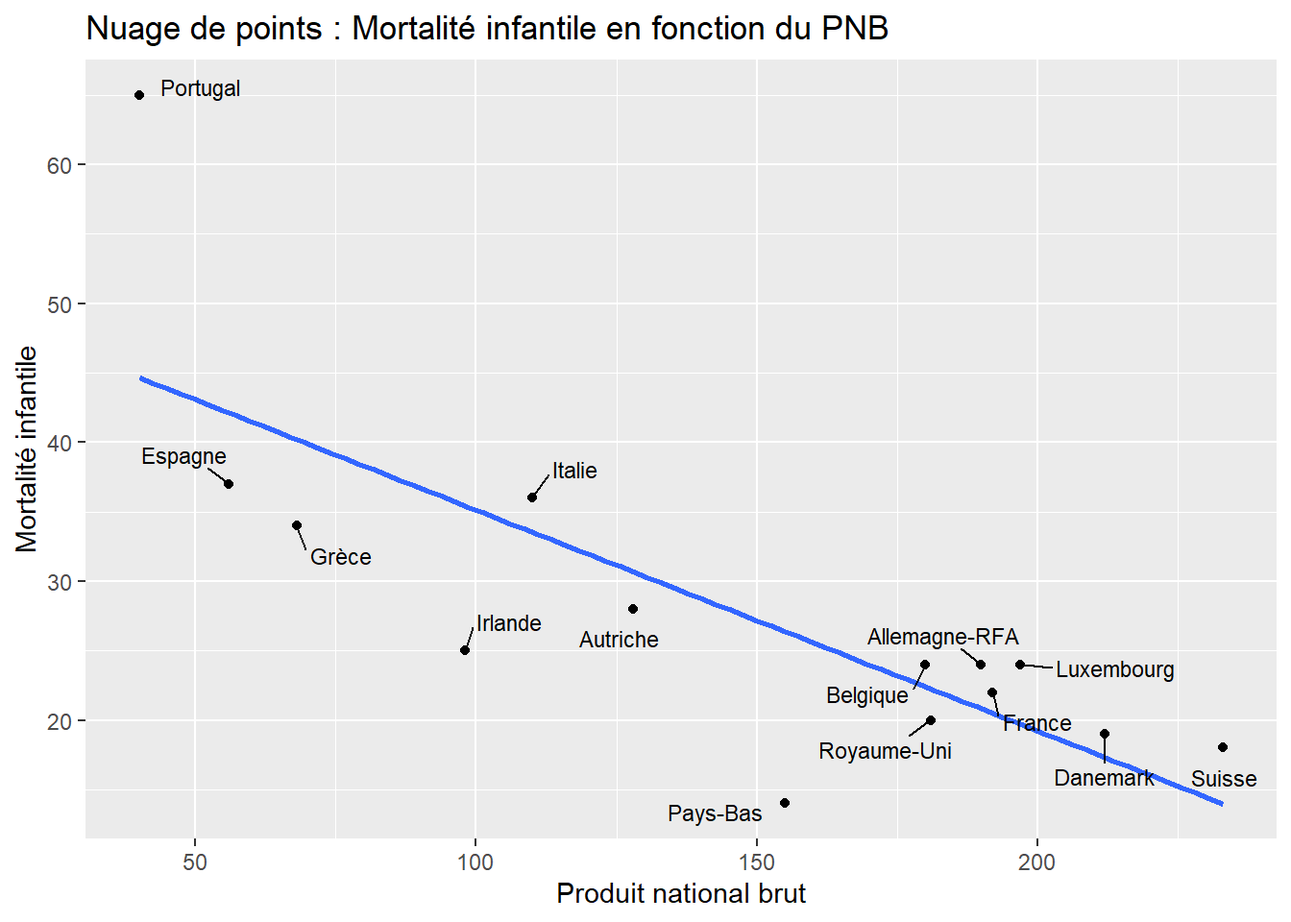
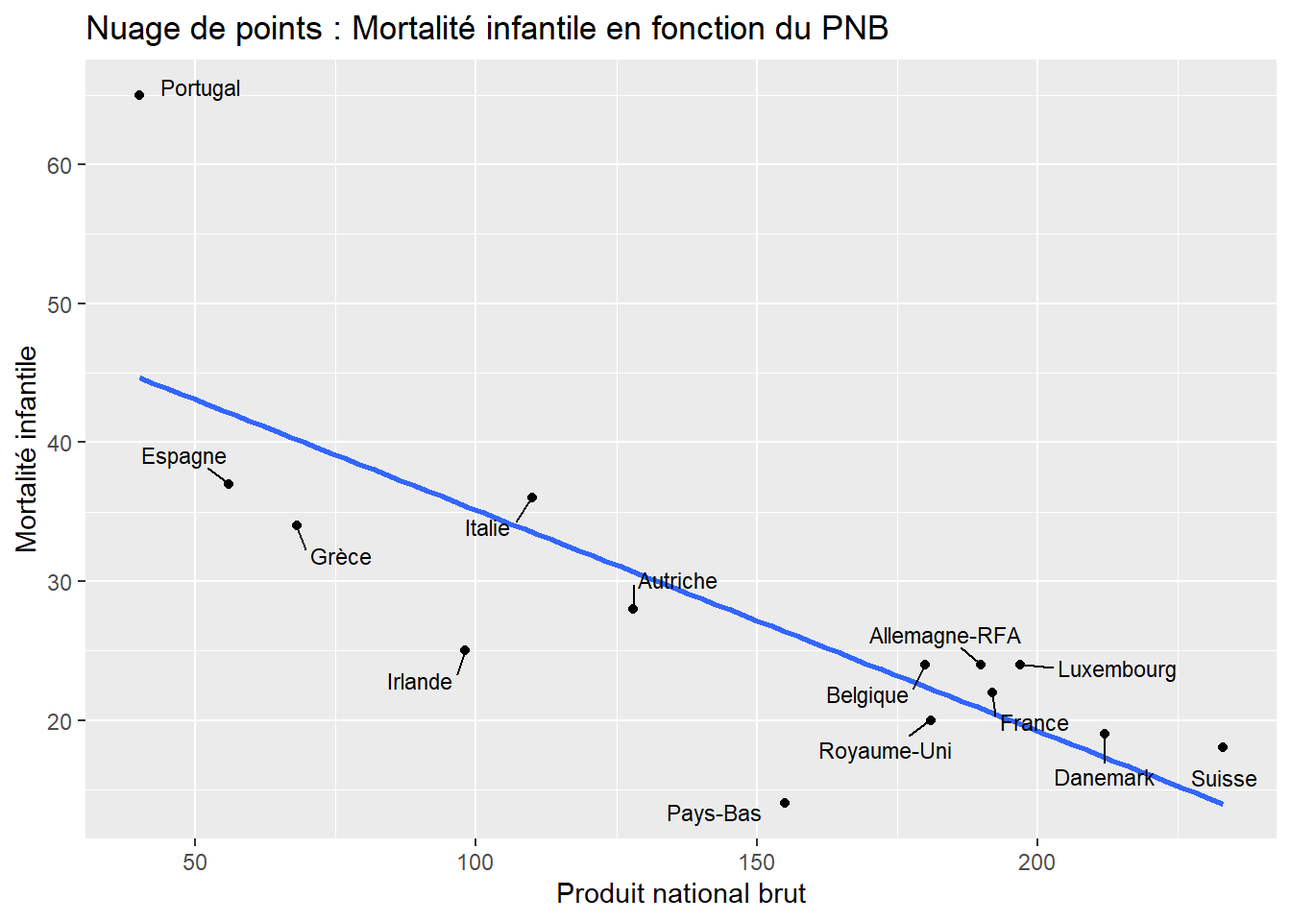
mise en forme

diff --git a/TP2/TP2.html b/TP2/TP2.html
@@ -127,14 +127,14 @@ window.Quarto = {
   </ul></li>
   <li><a href="#exercice-2" id="toc-exercice-2" class="nav-link" data-scroll-target="#exercice-2">Exercice 2</a>
   <ul class="collapse">
-  <li><a href="#a" id="toc-a" class="nav-link" data-scroll-target="#a">a)</a></li>
-  <li><a href="#b" id="toc-b" class="nav-link" data-scroll-target="#b">b)</a></li>
-  <li><a href="#c" id="toc-c" class="nav-link" data-scroll-target="#c">c)</a></li>
-  <li><a href="#d" id="toc-d" class="nav-link" data-scroll-target="#d">d)</a></li>
-  <li><a href="#e-et-f" id="toc-e-et-f" class="nav-link" data-scroll-target="#e-et-f">e) et f)</a></li>
-  <li><a href="#g" id="toc-g" class="nav-link" data-scroll-target="#g">g)</a></li>
-  <li><a href="#h" id="toc-h" class="nav-link" data-scroll-target="#h">h)</a></li>
-  <li><a href="#i" id="toc-i" class="nav-link" data-scroll-target="#i">i)</a></li>
+  <li><a href="#chargement-des-données-1" id="toc-chargement-des-données-1" class="nav-link" data-scroll-target="#chargement-des-données-1">Chargement des données</a></li>
+  <li><a href="#résumé" id="toc-résumé" class="nav-link" data-scroll-target="#résumé">Résumé</a></li>
+  <li><a href="#grapgique-de-nuage-de-points" id="toc-grapgique-de-nuage-de-points" class="nav-link" data-scroll-target="#grapgique-de-nuage-de-points">Grapgique de nuage de points</a></li>
+  <li><a href="#droite-de-régression-linaire" id="toc-droite-de-régression-linaire" class="nav-link" data-scroll-target="#droite-de-régression-linaire">Droite de régression linaire</a></li>
+  <li><a href="#coefficient-r-et-r2" id="toc-coefficient-r-et-r2" class="nav-link" data-scroll-target="#coefficient-r-et-r2">Coefficient <span class="math inline">\(r\)</span> et <span class="math inline">\(R^2\)</span></a></li>
+  <li><a href="#vérification-des-hypothèses" id="toc-vérification-des-hypothèses" class="nav-link" data-scroll-target="#vérification-des-hypothèses">Vérification des hypothèses</a></li>
+  <li><a href="#prédiction" id="toc-prédiction" class="nav-link" data-scroll-target="#prédiction">Prédiction</a></li>
+  <li><a href="#analyse-supplémentaire" id="toc-analyse-supplémentaire" class="nav-link" data-scroll-target="#analyse-supplémentaire">Analyse supplémentaire</a></li>
   </ul></li>
   <li><a href="#exercice-3" id="toc-exercice-3" class="nav-link" data-scroll-target="#exercice-3">Exercice 3</a></li>
   </ul>
@@ -164,7 +164,7 @@ window.Quarto = {
     <div>
     <div class="quarto-title-meta-heading">Published</div>
     <div class="quarto-title-meta-contents">
-      <p class="date">This version: April 29, 2024</p>
+      <p class="date">This version: May 6, 2024</p>
     </div>
   </div>
   
@@ -186,14 +186,17 @@ window.Quarto = {
 <span id="cb1-2"><a href="#cb1-2"></a>r[<span class="st">"CRAN"</span>] <span class="ot">=</span> <span class="st">"http://cran.us.r-project.org"</span></span>
 <span id="cb1-3"><a href="#cb1-3"></a><span class="fu">options</span>(<span class="at">repos =</span> r)</span>
 <span id="cb1-4"><a href="#cb1-4"></a></span>
-<span id="cb1-5"><a href="#cb1-5"></a><span class="fu">install.packages</span>(<span class="st">"ggResidpanel"</span>)</span></code><button title="Copy to Clipboard" class="code-copy-button"><i class="bi"></i></button></pre></div>
-<div class="cell-output cell-output-stdout">
-<pre><code>package 'ggResidpanel' successfully unpacked and MD5 sums checked
-
-The downloaded binary packages are in
-    C:\Users\lcsch\AppData\Local\Temp\RtmpARMFqi\downloaded_packages</code></pre>
-</div>
-<div class="sourceCode cell-code" id="cb3"><pre class="sourceCode numberSource r number-lines code-with-copy"><code class="sourceCode r"><span id="cb3-1"><a href="#cb3-1"></a><span class="fu">library</span>(<span class="st">"ggResidpanel"</span>)</span></code><button title="Copy to Clipboard" class="code-copy-button"><i class="bi"></i></button></pre></div>
+<span id="cb1-5"><a href="#cb1-5"></a><span class="fu">install.packages</span>(<span class="st">"ggResidpanel"</span>)</span>
+<span id="cb1-6"><a href="#cb1-6"></a><span class="fu">library</span>(<span class="st">"ggResidpanel"</span>)</span>
+<span id="cb1-7"><a href="#cb1-7"></a></span>
+<span id="cb1-8"><a href="#cb1-8"></a><span class="fu">install.packages</span>(<span class="st">"tidyverse"</span>)</span>
+<span id="cb1-9"><a href="#cb1-9"></a><span class="fu">library</span>(<span class="st">"tidyverse"</span>)</span>
+<span id="cb1-10"><a href="#cb1-10"></a></span>
+<span id="cb1-11"><a href="#cb1-11"></a><span class="fu">install.packages</span>(<span class="st">"ggrepel"</span>)</span>
+<span id="cb1-12"><a href="#cb1-12"></a><span class="fu">library</span>(<span class="st">"ggrepel"</span>)</span>
+<span id="cb1-13"><a href="#cb1-13"></a></span>
+<span id="cb1-14"><a href="#cb1-14"></a><span class="fu">install.packages</span>(<span class="st">"GGally"</span>)</span>
+<span id="cb1-15"><a href="#cb1-15"></a><span class="fu">library</span>(<span class="st">"GGally"</span>)</span></code><button title="Copy to Clipboard" class="code-copy-button"><i class="bi"></i></button></pre></div>
 </div>
 </section>
 </section>
@@ -202,15 +205,15 @@ The downloaded binary packages are in
 <section id="chargement-des-données" class="level3">
 <h3 class="anchored" data-anchor-id="chargement-des-données">Chargement des données</h3>
 <div class="cell">
-<div class="sourceCode cell-code" id="cb4"><pre class="sourceCode numberSource r number-lines code-with-copy"><code class="sourceCode r"><span id="cb4-1"><a href="#cb4-1"></a><span class="co"># Chargement des données</span></span>
-<span id="cb4-2"><a href="#cb4-2"></a>kalama <span class="ot">&lt;-</span> <span class="fu">read.table</span>(<span class="st">"data/kalama.txt"</span>, <span class="at">header=</span><span class="cn">TRUE</span>)</span></code><button title="Copy to Clipboard" class="code-copy-button"><i class="bi"></i></button></pre></div>
+<div class="sourceCode cell-code" id="cb2"><pre class="sourceCode numberSource r number-lines code-with-copy"><code class="sourceCode r"><span id="cb2-1"><a href="#cb2-1"></a><span class="co"># Chargement des données</span></span>
+<span id="cb2-2"><a href="#cb2-2"></a>kalama <span class="ot">&lt;-</span> <span class="fu">read.table</span>(<span class="st">"data/kalama.txt"</span>, <span class="at">header=</span><span class="cn">TRUE</span>)</span></code><button title="Copy to Clipboard" class="code-copy-button"><i class="bi"></i></button></pre></div>
 </div>
 </section>
 <section id="coefficient-de-correlation" class="level3">
 <h3 class="anchored" data-anchor-id="coefficient-de-correlation">Coefficient de correlation</h3>
 <div class="cell">
-<div class="sourceCode cell-code" id="cb5"><pre class="sourceCode numberSource r number-lines code-with-copy"><code class="sourceCode r"><span id="cb5-1"><a href="#cb5-1"></a><span class="co"># Coefficient de corelation entre la taille et l'âge (0.994)</span></span>
-<span id="cb5-2"><a href="#cb5-2"></a><span class="fu">cor</span>(kalama)</span></code><button title="Copy to Clipboard" class="code-copy-button"><i class="bi"></i></button></pre></div>
+<div class="sourceCode cell-code" id="cb3"><pre class="sourceCode numberSource r number-lines code-with-copy"><code class="sourceCode r"><span id="cb3-1"><a href="#cb3-1"></a><span class="co"># Coefficient de corelation entre la taille et l'âge (0.994)</span></span>
+<span id="cb3-2"><a href="#cb3-2"></a><span class="fu">cor</span>(kalama)</span></code><button title="Copy to Clipboard" class="code-copy-button"><i class="bi"></i></button></pre></div>
 <div class="cell-output cell-output-stdout">
 <pre><code>             age    taille
 age    1.0000000 0.9943661
@@ -221,8 +224,8 @@ taille 0.9943661 1.0000000</code></pre>
 <section id="nuage-de-points" class="level3">
 <h3 class="anchored" data-anchor-id="nuage-de-points">Nuage de points</h3>
 <div class="cell">
-<div class="sourceCode cell-code" id="cb7"><pre class="sourceCode numberSource r number-lines code-with-copy"><code class="sourceCode r"><span id="cb7-1"><a href="#cb7-1"></a><span class="co"># Nuage de points du dataset</span></span>
-<span id="cb7-2"><a href="#cb7-2"></a><span class="fu">plot</span>(kalama)</span></code><button title="Copy to Clipboard" class="code-copy-button"><i class="bi"></i></button></pre></div>
+<div class="sourceCode cell-code" id="cb5"><pre class="sourceCode numberSource r number-lines code-with-copy"><code class="sourceCode r"><span id="cb5-1"><a href="#cb5-1"></a><span class="co"># Nuage de points du dataset</span></span>
+<span id="cb5-2"><a href="#cb5-2"></a><span class="fu">plot</span>(kalama)</span></code><button title="Copy to Clipboard" class="code-copy-button"><i class="bi"></i></button></pre></div>
 <div class="cell-output-display">
 <div>
 <figure class="figure">
@@ -235,9 +238,9 @@ taille 0.9943661 1.0000000</code></pre>
 <section id="régression-linéaire" class="level3">
 <h3 class="anchored" data-anchor-id="régression-linéaire">Régression linéaire</h3>
 <div class="cell">
-<div class="sourceCode cell-code" id="cb8"><pre class="sourceCode numberSource r number-lines code-with-copy"><code class="sourceCode r"><span id="cb8-1"><a href="#cb8-1"></a><span class="co"># Regression linéaire</span></span>
-<span id="cb8-2"><a href="#cb8-2"></a>kalama.lm <span class="ot">&lt;-</span> <span class="fu">lm</span>(taille<span class="sc">~</span>age, <span class="at">data=</span>kalama)</span>
-<span id="cb8-3"><a href="#cb8-3"></a><span class="fu">summary</span>(kalama.lm)</span></code><button title="Copy to Clipboard" class="code-copy-button"><i class="bi"></i></button></pre></div>
+<div class="sourceCode cell-code" id="cb6"><pre class="sourceCode numberSource r number-lines code-with-copy"><code class="sourceCode r"><span id="cb6-1"><a href="#cb6-1"></a><span class="co"># Regression linéaire</span></span>
+<span id="cb6-2"><a href="#cb6-2"></a>kalama.lm <span class="ot">&lt;-</span> <span class="fu">lm</span>(taille<span class="sc">~</span>age, <span class="at">data=</span>kalama)</span>
+<span id="cb6-3"><a href="#cb6-3"></a><span class="fu">summary</span>(kalama.lm)</span></code><button title="Copy to Clipboard" class="code-copy-button"><i class="bi"></i></button></pre></div>
 <div class="cell-output cell-output-stdout">
 <pre><code>
 Call:
@@ -258,20 +261,20 @@ Residual standard error: 0.256 on 10 degrees of freedom
 Multiple R-squared:  0.9888,    Adjusted R-squared:  0.9876 
 F-statistic:   880 on 1 and 10 DF,  p-value: 4.428e-11</code></pre>
 </div>
-<div class="sourceCode cell-code" id="cb10"><pre class="sourceCode numberSource r number-lines code-with-copy"><code class="sourceCode r"><span id="cb10-1"><a href="#cb10-1"></a><span class="fu">coef</span>(kalama.lm)</span></code><button title="Copy to Clipboard" class="code-copy-button"><i class="bi"></i></button></pre></div>
+<div class="sourceCode cell-code" id="cb8"><pre class="sourceCode numberSource r number-lines code-with-copy"><code class="sourceCode r"><span id="cb8-1"><a href="#cb8-1"></a><span class="fu">coef</span>(kalama.lm)</span></code><button title="Copy to Clipboard" class="code-copy-button"><i class="bi"></i></button></pre></div>
 <div class="cell-output cell-output-stdout">
 <pre><code>(Intercept)         age 
   64.928322    0.634965 </code></pre>
 </div>
-<div class="sourceCode cell-code" id="cb12"><pre class="sourceCode numberSource r number-lines code-with-copy"><code class="sourceCode r"><span id="cb12-1"><a href="#cb12-1"></a><span class="co"># Pente (beta 0) : 0.635</span></span>
-<span id="cb12-2"><a href="#cb12-2"></a><span class="co"># Ordonnée à l'origine (beta 1) : 64.9283</span></span></code><button title="Copy to Clipboard" class="code-copy-button"><i class="bi"></i></button></pre></div>
+<div class="sourceCode cell-code" id="cb10"><pre class="sourceCode numberSource r number-lines code-with-copy"><code class="sourceCode r"><span id="cb10-1"><a href="#cb10-1"></a><span class="co"># Pente (beta 0) : 0.635</span></span>
+<span id="cb10-2"><a href="#cb10-2"></a><span class="co"># Ordonnée à l'origine (beta 1) : 64.9283</span></span></code><button title="Copy to Clipboard" class="code-copy-button"><i class="bi"></i></button></pre></div>
 </div>
 </section>
 <section id="ajustement-du-graphique" class="level3">
 <h3 class="anchored" data-anchor-id="ajustement-du-graphique">Ajustement du graphique</h3>
 <div class="cell">
-<div class="sourceCode cell-code" id="cb13"><pre class="sourceCode numberSource r number-lines code-with-copy"><code class="sourceCode r"><span id="cb13-1"><a href="#cb13-1"></a><span class="fu">plot</span>(kalama)</span>
-<span id="cb13-2"><a href="#cb13-2"></a><span class="fu">abline</span>(kalama.lm)</span></code><button title="Copy to Clipboard" class="code-copy-button"><i class="bi"></i></button></pre></div>
+<div class="sourceCode cell-code" id="cb11"><pre class="sourceCode numberSource r number-lines code-with-copy"><code class="sourceCode r"><span id="cb11-1"><a href="#cb11-1"></a><span class="fu">plot</span>(kalama)</span>
+<span id="cb11-2"><a href="#cb11-2"></a><span class="fu">abline</span>(kalama.lm)</span></code><button title="Copy to Clipboard" class="code-copy-button"><i class="bi"></i></button></pre></div>
 <div class="cell-output-display">
 <div>
 <figure class="figure">
@@ -284,19 +287,19 @@ F-statistic:   880 on 1 and 10 DF,  p-value: 4.428e-11</code></pre>
 <section id="variance-des-résidus-et-coefficient-r2" class="level3">
 <h3 class="anchored" data-anchor-id="variance-des-résidus-et-coefficient-r2">Variance des résidus et coefficient <span class="math inline">\(R^2\)</span></h3>
 <div class="cell">
-<div class="sourceCode cell-code" id="cb14"><pre class="sourceCode numberSource r number-lines code-with-copy"><code class="sourceCode r"><span id="cb14-1"><a href="#cb14-1"></a><span class="co"># On peut obtenir la variance des résidus avec la fonction deviance() -&gt; 0.655</span></span>
-<span id="cb14-2"><a href="#cb14-2"></a><span class="fu">deviance</span>(kalama.lm)</span></code><button title="Copy to Clipboard" class="code-copy-button"><i class="bi"></i></button></pre></div>
+<div class="sourceCode cell-code" id="cb12"><pre class="sourceCode numberSource r number-lines code-with-copy"><code class="sourceCode r"><span id="cb12-1"><a href="#cb12-1"></a><span class="co"># On peut obtenir la variance des résidus avec la fonction deviance() -&gt; 0.655</span></span>
+<span id="cb12-2"><a href="#cb12-2"></a><span class="fu">deviance</span>(kalama.lm)</span></code><button title="Copy to Clipboard" class="code-copy-button"><i class="bi"></i></button></pre></div>
 <div class="cell-output cell-output-stdout">
 <pre><code>[1] 0.6551748</code></pre>
 </div>
-<div class="sourceCode cell-code" id="cb16"><pre class="sourceCode numberSource r number-lines code-with-copy"><code class="sourceCode r"><span id="cb16-1"><a href="#cb16-1"></a><span class="co"># Le coefficient de détermination R^2 est égal au carré du coefficient de correlation et est affiché dans le summary() de la régression.</span></span>
-<span id="cb16-2"><a href="#cb16-2"></a><span class="co"># R^2 = 0.9888</span></span></code><button title="Copy to Clipboard" class="code-copy-button"><i class="bi"></i></button></pre></div>
+<div class="sourceCode cell-code" id="cb14"><pre class="sourceCode numberSource r number-lines code-with-copy"><code class="sourceCode r"><span id="cb14-1"><a href="#cb14-1"></a><span class="co"># Le coefficient de détermination R^2 est égal au carré du coefficient de correlation et est affiché dans le summary() de la régression.</span></span>
+<span id="cb14-2"><a href="#cb14-2"></a><span class="co"># R^2 = 0.9888</span></span></code><button title="Copy to Clipboard" class="code-copy-button"><i class="bi"></i></button></pre></div>
 </div>
 </section>
 <section id="diagnostic-du-modèle" class="level3">
 <h3 class="anchored" data-anchor-id="diagnostic-du-modèle">Diagnostic du modèle</h3>
 <div class="cell">
-<div class="sourceCode cell-code" id="cb17"><pre class="sourceCode numberSource r number-lines code-with-copy"><code class="sourceCode r"><span id="cb17-1"><a href="#cb17-1"></a><span class="fu">resid_panel</span>(kalama.lm, <span class="at">plots=</span><span class="st">"all"</span>)</span></code><button title="Copy to Clipboard" class="code-copy-button"><i class="bi"></i></button></pre></div>
+<div class="sourceCode cell-code" id="cb15"><pre class="sourceCode numberSource r number-lines code-with-copy"><code class="sourceCode r"><span id="cb15-1"><a href="#cb15-1"></a><span class="fu">resid_panel</span>(kalama.lm, <span class="at">plots=</span><span class="st">"all"</span>)</span></code><button title="Copy to Clipboard" class="code-copy-button"><i class="bi"></i></button></pre></div>
 <div class="cell-output-display">
 <div>
 <figure class="figure">
@@ -315,8 +318,8 @@ F-statistic:   880 on 1 and 10 DF,  p-value: 4.428e-11</code></pre>
 <h3 class="anchored" data-anchor-id="test-avec-un-niveau-de-signification-5">Test avec un niveau de signification 5%</h3>
 <p>On peut extraire le niveau de signification du summary de la manière suivante :</p>
 <div class="cell">
-<div class="sourceCode cell-code" id="cb18"><pre class="sourceCode numberSource r number-lines code-with-copy"><code class="sourceCode r"><span id="cb18-1"><a href="#cb18-1"></a>significance_level <span class="ot">=</span> <span class="fu">summary</span>(kalama.lm)<span class="sc">$</span>coefficients[<span class="dv">2</span>,<span class="dv">4</span>]</span>
-<span id="cb18-2"><a href="#cb18-2"></a><span class="fu">print</span>(significance_level)</span></code><button title="Copy to Clipboard" class="code-copy-button"><i class="bi"></i></button></pre></div>
+<div class="sourceCode cell-code" id="cb16"><pre class="sourceCode numberSource r number-lines code-with-copy"><code class="sourceCode r"><span id="cb16-1"><a href="#cb16-1"></a>significance_level <span class="ot">=</span> <span class="fu">summary</span>(kalama.lm)<span class="sc">$</span>coefficients[<span class="dv">2</span>,<span class="dv">4</span>]</span>
+<span id="cb16-2"><a href="#cb16-2"></a><span class="fu">print</span>(significance_level)</span></code><button title="Copy to Clipboard" class="code-copy-button"><i class="bi"></i></button></pre></div>
 <div class="cell-output cell-output-stdout">
 <pre><code>[1] 4.428071e-11</code></pre>
 </div>
@@ -326,12 +329,12 @@ F-statistic:   880 on 1 and 10 DF,  p-value: 4.428e-11</code></pre>
 </section>
 <section id="exercice-2" class="level2">
 <h2 class="anchored" data-anchor-id="exercice-2">Exercice 2</h2>
-<section id="a" class="level3">
-<h3 class="anchored" data-anchor-id="a">a)</h3>
+<section id="chargement-des-données-1" class="level3">
+<h3 class="anchored" data-anchor-id="chargement-des-données-1">Chargement des données</h3>
 <p>Nous avons créé un fichier <code>pnb_mortalite.txt</code> dans lequel nous avons copié-collé le contenu des données à importer. Cela nous a paru plus simple que de tout réécrire à la main dans une commande.</p>
 <div class="cell">
-<div class="sourceCode cell-code" id="cb20"><pre class="sourceCode numberSource r number-lines code-with-copy"><code class="sourceCode r"><span id="cb20-1"><a href="#cb20-1"></a>pnb_data <span class="ot">=</span> <span class="fu">read.table</span>(<span class="st">"data/pnb_mortalite.txt"</span>, <span class="at">header=</span><span class="cn">TRUE</span>)</span>
-<span id="cb20-2"><a href="#cb20-2"></a>pnb_data</span></code><button title="Copy to Clipboard" class="code-copy-button"><i class="bi"></i></button></pre></div>
+<div class="sourceCode cell-code" id="cb18"><pre class="sourceCode numberSource r number-lines code-with-copy"><code class="sourceCode r"><span id="cb18-1"><a href="#cb18-1"></a>pnb_data <span class="ot">=</span> <span class="fu">read.table</span>(<span class="st">"data/pnb_mortalite.txt"</span>, <span class="at">header=</span><span class="cn">TRUE</span>)</span>
+<span id="cb18-2"><a href="#cb18-2"></a>pnb_data</span></code><button title="Copy to Clipboard" class="code-copy-button"><i class="bi"></i></button></pre></div>
 <div class="cell-output cell-output-stdout">
 <pre><code>            pays PNB mortalite
 1  Allemagne-RFA 190        24
@@ -351,10 +354,10 @@ F-statistic:   880 on 1 and 10 DF,  p-value: 4.428e-11</code></pre>
 </div>
 </div>
 </section>
-<section id="b" class="level3">
-<h3 class="anchored" data-anchor-id="b">b)</h3>
+<section id="résumé" class="level3">
+<h3 class="anchored" data-anchor-id="résumé">Résumé</h3>
 <div class="cell">
-<div class="sourceCode cell-code" id="cb22"><pre class="sourceCode numberSource r number-lines code-with-copy"><code class="sourceCode r"><span id="cb22-1"><a href="#cb22-1"></a><span class="fu">summary</span>(pnb_data)</span></code><button title="Copy to Clipboard" class="code-copy-button"><i class="bi"></i></button></pre></div>
+<div class="sourceCode cell-code" id="cb20"><pre class="sourceCode numberSource r number-lines code-with-copy"><code class="sourceCode r"><span id="cb20-1"><a href="#cb20-1"></a><span class="fu">summary</span>(pnb_data)</span></code><button title="Copy to Clipboard" class="code-copy-button"><i class="bi"></i></button></pre></div>
 <div class="cell-output cell-output-stdout">
 <pre><code>     pays                PNB          mortalite    
  Length:14          Min.   : 40.0   Min.   :14.00  
@@ -366,53 +369,34 @@ F-statistic:   880 on 1 and 10 DF,  p-value: 4.428e-11</code></pre>
 </div>
 </div>
 </section>
-<section id="c" class="level3">
-<h3 class="anchored" data-anchor-id="c">c)</h3>
+<section id="grapgique-de-nuage-de-points" class="level3">
+<h3 class="anchored" data-anchor-id="grapgique-de-nuage-de-points">Grapgique de nuage de points</h3>
 <div class="cell">
-<div class="sourceCode cell-code" id="cb24"><pre class="sourceCode numberSource r number-lines code-with-copy"><code class="sourceCode r"><span id="cb24-1"><a href="#cb24-1"></a><span class="fu">install.packages</span>(<span class="st">"tidyverse"</span>)</span></code><button title="Copy to Clipboard" class="code-copy-button"><i class="bi"></i></button></pre></div>
-<div class="cell-output cell-output-stdout">
-<pre><code>package 'tidyverse' successfully unpacked and MD5 sums checked
-
-The downloaded binary packages are in
-    C:\Users\lcsch\AppData\Local\Temp\RtmpARMFqi\downloaded_packages</code></pre>
-</div>
-<div class="sourceCode cell-code" id="cb26"><pre class="sourceCode numberSource r number-lines code-with-copy"><code class="sourceCode r"><span id="cb26-1"><a href="#cb26-1"></a><span class="fu">install.packages</span>(<span class="st">"ggrepel"</span>)</span></code><button title="Copy to Clipboard" class="code-copy-button"><i class="bi"></i></button></pre></div>
-<div class="cell-output cell-output-stdout">
-<pre><code>package 'ggrepel' successfully unpacked and MD5 sums checked
-
-The downloaded binary packages are in
-    C:\Users\lcsch\AppData\Local\Temp\RtmpARMFqi\downloaded_packages</code></pre>
-</div>
-</div>
-<div class="cell">
-<div class="sourceCode cell-code" id="cb28"><pre class="sourceCode numberSource r number-lines code-with-copy"><code class="sourceCode r"><span id="cb28-1"><a href="#cb28-1"></a><span class="fu">library</span>(tidyverse)</span>
-<span id="cb28-2"><a href="#cb28-2"></a><span class="fu">library</span>(ggrepel)</span>
-<span id="cb28-3"><a href="#cb28-3"></a></span>
-<span id="cb28-4"><a href="#cb28-4"></a><span class="fu">ggplot</span>(pnb_data, <span class="fu">aes</span>(<span class="at">x =</span> PNB, <span class="at">y =</span> mortalite)) <span class="sc">+</span></span>
-<span id="cb28-5"><a href="#cb28-5"></a><span class="fu">geom_point</span>() <span class="sc">+</span></span>
-<span id="cb28-6"><a href="#cb28-6"></a><span class="fu">geom_smooth</span>(<span class="at">method =</span> <span class="st">"lm"</span>, <span class="at">se =</span> <span class="cn">FALSE</span>) <span class="sc">+</span> <span class="co"># Ajouter la droite de régression linéaire</span></span>
-<span id="cb28-7"><a href="#cb28-7"></a><span class="fu">geom_text_repel</span>(<span class="fu">aes</span>(<span class="at">label =</span> pays), <span class="at">size =</span> <span class="dv">3</span>, <span class="at">box.padding =</span> <span class="fl">0.5</span>) <span class="sc">+</span> <span class="co"># Ajouter les noms des pays avec ggrepel</span></span>
-<span id="cb28-8"><a href="#cb28-8"></a><span class="fu">labs</span>(<span class="at">x =</span> <span class="st">"Produit national brut"</span>, <span class="at">y =</span> <span class="st">"Mortalité infantile"</span>, <span class="at">title =</span> <span class="st">"Nuage de points : Mortalité infantile en fonction du PNB"</span>)</span></code><button title="Copy to Clipboard" class="code-copy-button"><i class="bi"></i></button></pre></div>
+<div class="sourceCode cell-code" id="cb22"><pre class="sourceCode numberSource r number-lines code-with-copy"><code class="sourceCode r"><span id="cb22-1"><a href="#cb22-1"></a><span class="fu">ggplot</span>(pnb_data, <span class="fu">aes</span>(<span class="at">x =</span> PNB, <span class="at">y =</span> mortalite)) <span class="sc">+</span></span>
+<span id="cb22-2"><a href="#cb22-2"></a><span class="fu">geom_point</span>() <span class="sc">+</span></span>
+<span id="cb22-3"><a href="#cb22-3"></a><span class="fu">geom_smooth</span>(<span class="at">method =</span> <span class="st">"lm"</span>, <span class="at">se =</span> <span class="cn">FALSE</span>) <span class="sc">+</span> <span class="co"># Ajouter la droite de régression linéaire</span></span>
+<span id="cb22-4"><a href="#cb22-4"></a><span class="fu">geom_text_repel</span>(<span class="fu">aes</span>(<span class="at">label =</span> pays), <span class="at">size =</span> <span class="dv">3</span>, <span class="at">box.padding =</span> <span class="fl">0.5</span>) <span class="sc">+</span> <span class="co"># Ajouter les noms des pays avec ggrepel</span></span>
+<span id="cb22-5"><a href="#cb22-5"></a><span class="fu">labs</span>(<span class="at">x =</span> <span class="st">"Produit national brut"</span>, <span class="at">y =</span> <span class="st">"Mortalité infantile"</span>, <span class="at">title =</span> <span class="st">"Nuage de points : Mortalité infantile en fonction du PNB"</span>)</span></code><button title="Copy to Clipboard" class="code-copy-button"><i class="bi"></i></button></pre></div>
 <div class="cell-output-display">
 <div>
 <figure class="figure">
-<p><img src="TP2_files/figure-html/unnamed-chunk-13-1.png" class="img-fluid figure-img" width="672"></p>
+<p><img src="TP2_files/figure-html/unnamed-chunk-12-1.png" class="img-fluid figure-img" width="672"></p>
 </figure>
 </div>
 </div>
 </div>
 <p>Comme on peut le voir sur le nuage de points ci-dessus, la plupart des pays suive la tendance sauf le Portugal qui sort très clairement du lot.</p>
 </section>
-<section id="d" class="level3">
-<h3 class="anchored" data-anchor-id="d">d)</h3>
+<section id="droite-de-régression-linaire" class="level3">
+<h3 class="anchored" data-anchor-id="droite-de-régression-linaire">Droite de régression linaire</h3>
 <div class="cell">
-<div class="sourceCode cell-code" id="cb29"><pre class="sourceCode numberSource r number-lines code-with-copy"><code class="sourceCode r"><span id="cb29-1"><a href="#cb29-1"></a>pnb_data.lm <span class="ot">=</span> <span class="fu">lm</span>(mortalite<span class="sc">~</span>PNB, <span class="at">data=</span>pnb_data)</span>
-<span id="cb29-2"><a href="#cb29-2"></a><span class="fu">coef</span>(pnb_data.lm)</span></code><button title="Copy to Clipboard" class="code-copy-button"><i class="bi"></i></button></pre></div>
+<div class="sourceCode cell-code" id="cb23"><pre class="sourceCode numberSource r number-lines code-with-copy"><code class="sourceCode r"><span id="cb23-1"><a href="#cb23-1"></a>pnb_data.lm <span class="ot">=</span> <span class="fu">lm</span>(mortalite<span class="sc">~</span>PNB, <span class="at">data=</span>pnb_data)</span>
+<span id="cb23-2"><a href="#cb23-2"></a><span class="fu">coef</span>(pnb_data.lm)</span></code><button title="Copy to Clipboard" class="code-copy-button"><i class="bi"></i></button></pre></div>
 <div class="cell-output cell-output-stdout">
 <pre><code>(Intercept)         PNB 
  51.0132698  -0.1589146 </code></pre>
 </div>
-<div class="sourceCode cell-code" id="cb31"><pre class="sourceCode numberSource r number-lines code-with-copy"><code class="sourceCode r"><span id="cb31-1"><a href="#cb31-1"></a><span class="fu">summary</span>(pnb_data.lm)</span></code><button title="Copy to Clipboard" class="code-copy-button"><i class="bi"></i></button></pre></div>
+<div class="sourceCode cell-code" id="cb25"><pre class="sourceCode numberSource r number-lines code-with-copy"><code class="sourceCode r"><span id="cb25-1"><a href="#cb25-1"></a><span class="fu">summary</span>(pnb_data.lm)</span></code><button title="Copy to Clipboard" class="code-copy-button"><i class="bi"></i></button></pre></div>
 <div class="cell-output cell-output-stdout">
 <pre><code>
 Call:
@@ -436,10 +420,10 @@ F-statistic: 18.82 on 1 and 12 DF,  p-value: 0.000965</code></pre>
 </div>
 <p>La pente est de <strong>-0.16</strong> et l’ordonnée à l’origine est de <strong>51</strong>.</p>
 </section>
-<section id="e-et-f" class="level3">
-<h3 class="anchored" data-anchor-id="e-et-f">e) et f)</h3>
+<section id="coefficient-r-et-r2" class="level3">
+<h3 class="anchored" data-anchor-id="coefficient-r-et-r2">Coefficient <span class="math inline">\(r\)</span> et <span class="math inline">\(R^2\)</span></h3>
 <div class="cell">
-<div class="sourceCode cell-code" id="cb33"><pre class="sourceCode numberSource r number-lines code-with-copy"><code class="sourceCode r"><span id="cb33-1"><a href="#cb33-1"></a><span class="fu">cor</span>(pnb_data<span class="sc">$</span>PNB, pnb_data<span class="sc">$</span>mortalite)</span></code><button title="Copy to Clipboard" class="code-copy-button"><i class="bi"></i></button></pre></div>
+<div class="sourceCode cell-code" id="cb27"><pre class="sourceCode numberSource r number-lines code-with-copy"><code class="sourceCode r"><span id="cb27-1"><a href="#cb27-1"></a><span class="fu">cor</span>(pnb_data<span class="sc">$</span>PNB, pnb_data<span class="sc">$</span>mortalite)</span></code><button title="Copy to Clipboard" class="code-copy-button"><i class="bi"></i></button></pre></div>
 <div class="cell-output cell-output-stdout">
 <pre><code>[1] -0.7814228</code></pre>
 </div>
@@ -447,27 +431,27 @@ F-statistic: 18.82 on 1 and 12 DF,  p-value: 0.000965</code></pre>
 <p>Le coefficient de corrélation <code>r</code> est de : <strong>-0.78</strong>.</p>
 <p>Le coefficient de <em>détermination</em>, indiqué dans le summary() ci-dessus, vaut 0.6106 et correspond effectivement au carré du coefficient de corrélation.</p>
 </section>
-<section id="g" class="level3">
-<h3 class="anchored" data-anchor-id="g">g)</h3>
+<section id="vérification-des-hypothèses" class="level3">
+<h3 class="anchored" data-anchor-id="vérification-des-hypothèses">Vérification des hypothèses</h3>
 <div class="cell">
-<div class="sourceCode cell-code" id="cb35"><pre class="sourceCode numberSource r number-lines code-with-copy"><code class="sourceCode r"><span id="cb35-1"><a href="#cb35-1"></a><span class="fu">resid_panel</span>(pnb_data.lm, <span class="at">plots=</span><span class="st">"all"</span>)</span></code><button title="Copy to Clipboard" class="code-copy-button"><i class="bi"></i></button></pre></div>
+<div class="sourceCode cell-code" id="cb29"><pre class="sourceCode numberSource r number-lines code-with-copy"><code class="sourceCode r"><span id="cb29-1"><a href="#cb29-1"></a><span class="fu">resid_panel</span>(pnb_data.lm, <span class="at">plots=</span><span class="st">"all"</span>)</span></code><button title="Copy to Clipboard" class="code-copy-button"><i class="bi"></i></button></pre></div>
 <div class="cell-output-display">
 <div>
 <figure class="figure">
-<p><img src="TP2_files/figure-html/unnamed-chunk-16-1.png" class="img-fluid figure-img" width="672"></p>
+<p><img src="TP2_files/figure-html/unnamed-chunk-15-1.png" class="img-fluid figure-img" width="672"></p>
 </figure>
 </div>
 </div>
 </div>
 <p>L’hypothèse que nous avions faite, soit que le Portugal est atypique, est confirmée par les graphiques ci-dessus. Que ce soit dans le Q-Q plot, le boxplot ou la distance de Cook, on voit qu’il y a une valeur atypique.</p>
 </section>
-<section id="h" class="level3">
-<h3 class="anchored" data-anchor-id="h">h)</h3>
+<section id="prédiction" class="level3">
+<h3 class="anchored" data-anchor-id="prédiction">Prédiction</h3>
 <div class="cell">
-<div class="sourceCode cell-code" id="cb36"><pre class="sourceCode numberSource r number-lines code-with-copy"><code class="sourceCode r"><span id="cb36-1"><a href="#cb36-1"></a>xnew <span class="ot">&lt;-</span> <span class="fu">matrix</span>(<span class="fu">c</span>(<span class="dv">100</span>), <span class="at">nrow=</span><span class="dv">1</span>)</span>
-<span id="cb36-2"><a href="#cb36-2"></a><span class="fu">colnames</span>(xnew) <span class="ot">&lt;-</span> <span class="fu">c</span>(<span class="st">"PNB"</span>)</span>
-<span id="cb36-3"><a href="#cb36-3"></a>xnew <span class="ot">&lt;-</span> <span class="fu">as.data.frame</span>(xnew)</span>
-<span id="cb36-4"><a href="#cb36-4"></a><span class="fu">predict</span>(pnb_data.lm, xnew, <span class="at">interval=</span><span class="st">"pred"</span>)</span></code><button title="Copy to Clipboard" class="code-copy-button"><i class="bi"></i></button></pre></div>
+<div class="sourceCode cell-code" id="cb30"><pre class="sourceCode numberSource r number-lines code-with-copy"><code class="sourceCode r"><span id="cb30-1"><a href="#cb30-1"></a>xnew <span class="ot">&lt;-</span> <span class="fu">matrix</span>(<span class="fu">c</span>(<span class="dv">100</span>), <span class="at">nrow=</span><span class="dv">1</span>)</span>
+<span id="cb30-2"><a href="#cb30-2"></a><span class="fu">colnames</span>(xnew) <span class="ot">&lt;-</span> <span class="fu">c</span>(<span class="st">"PNB"</span>)</span>
+<span id="cb30-3"><a href="#cb30-3"></a>xnew <span class="ot">&lt;-</span> <span class="fu">as.data.frame</span>(xnew)</span>
+<span id="cb30-4"><a href="#cb30-4"></a><span class="fu">predict</span>(pnb_data.lm, xnew, <span class="at">interval=</span><span class="st">"pred"</span>)</span></code><button title="Copy to Clipboard" class="code-copy-button"><i class="bi"></i></button></pre></div>
 <div class="cell-output cell-output-stdout">
 <pre><code>       fit      lwr      upr
 1 35.12181 16.22173 54.02189</code></pre>
@@ -475,8 +459,8 @@ F-statistic: 18.82 on 1 and 12 DF,  p-value: 0.000965</code></pre>
 </div>
 <p>La prédiction est de 35.12, soit exactement sur la ligne de la régression linéaire.</p>
 </section>
-<section id="i" class="level3">
-<h3 class="anchored" data-anchor-id="i">i)</h3>
+<section id="analyse-supplémentaire" class="level3">
+<h3 class="anchored" data-anchor-id="analyse-supplémentaire">Analyse supplémentaire</h3>
 <p>Ce nouveau modèle donne un meilleur coefficient de détermination (0.61 avec une régression linéaire, 0.78 avec un log).</p>
 <p>Nous pensons qu’un modèle logarithmique serait effectivement mieux adapté à la prédiction de la mortalité infantile car un modèle linéaire implique qu’avec un certain PNB, le taux de mortalité infantile pourrait atteindre 0. En pratique, on pourra s’en approcher mais jamais atteindre le 0%.</p>
 </section>
@@ -484,24 +468,13 @@ F-statistic: 18.82 on 1 and 12 DF,  p-value: 0.000965</code></pre>
 <section id="exercice-3" class="level2">
 <h2 class="anchored" data-anchor-id="exercice-3">Exercice 3</h2>
 <div class="cell">
-<div class="sourceCode cell-code" id="cb38"><pre class="sourceCode numberSource r number-lines code-with-copy"><code class="sourceCode r"><span id="cb38-1"><a href="#cb38-1"></a><span class="fu">install.packages</span>(<span class="st">"GGally"</span>)</span></code><button title="Copy to Clipboard" class="code-copy-button"><i class="bi"></i></button></pre></div>
-<div class="cell-output cell-output-stdout">
-<pre><code>package 'GGally' successfully unpacked and MD5 sums checked
-
-The downloaded binary packages are in
-    C:\Users\lcsch\AppData\Local\Temp\RtmpARMFqi\downloaded_packages</code></pre>
-</div>
-</div>
-<div class="cell">
-<div class="sourceCode cell-code" id="cb40"><pre class="sourceCode numberSource r number-lines code-with-copy"><code class="sourceCode r"><span id="cb40-1"><a href="#cb40-1"></a><span class="fu">library</span>(<span class="st">"GGally"</span>)</span>
-<span id="cb40-2"><a href="#cb40-2"></a></span>
-<span id="cb40-3"><a href="#cb40-3"></a>litters <span class="ot">=</span> <span class="fu">readRDS</span>(<span class="st">"data/litters.rds"</span>)</span>
-<span id="cb40-4"><a href="#cb40-4"></a></span>
-<span id="cb40-5"><a href="#cb40-5"></a><span class="fu">ggpairs</span>(litters)</span></code><button title="Copy to Clipboard" class="code-copy-button"><i class="bi"></i></button></pre></div>
+<div class="sourceCode cell-code" id="cb32"><pre class="sourceCode numberSource r number-lines code-with-copy"><code class="sourceCode r"><span id="cb32-1"><a href="#cb32-1"></a>litters <span class="ot">=</span> <span class="fu">readRDS</span>(<span class="st">"data/litters.rds"</span>)</span>
+<span id="cb32-2"><a href="#cb32-2"></a></span>
+<span id="cb32-3"><a href="#cb32-3"></a><span class="fu">ggpairs</span>(litters)</span></code><button title="Copy to Clipboard" class="code-copy-button"><i class="bi"></i></button></pre></div>
 <div class="cell-output-display">
 <div>
 <figure class="figure">
-<p><img src="TP2_files/figure-html/unnamed-chunk-19-1.png" class="img-fluid figure-img" width="672"></p>
+<p><img src="TP2_files/figure-html/unnamed-chunk-17-1.png" class="img-fluid figure-img" width="672"></p>
 </figure>
 </div>
 </div>
